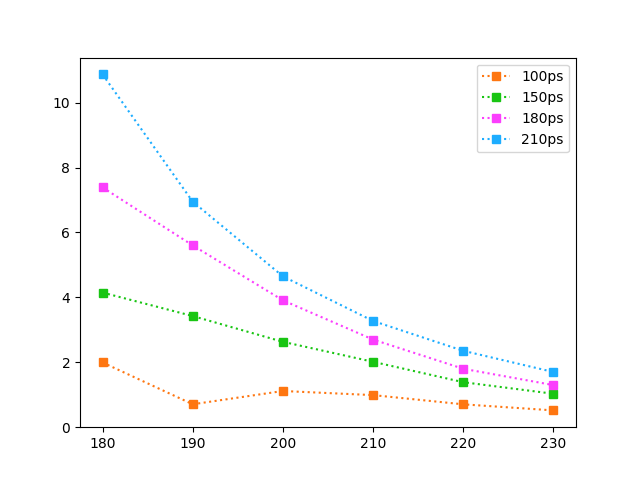
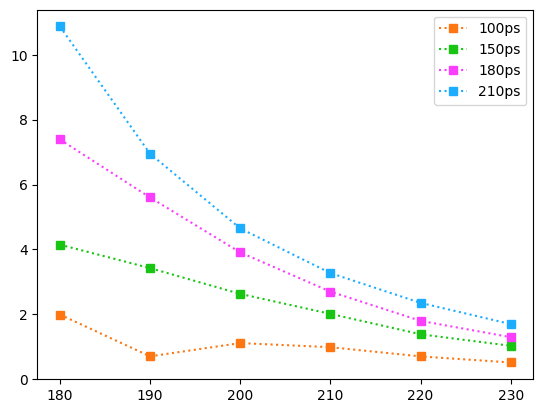
Poster stuff from PC

diff --git a/Batch 3/single Gaussian IRF/plotbar.py b/Batch 3/single Gaussian IRF/plotbar.py
@@ -167,7 +167,7 @@ for dataset in plots:
 	
 	plt.xticks(x,x)
 	plt.legend()
-	plt.savefig(dataset[0]+" "+dataset[1]+".png")
+	plt.savefig(dataset[0]+" "+dataset[1]+".png", bbox_inches="tight")
 	plt.clf()
 
 """

diff --git a/Batch 3/regular IRF/plotirf.py b/Batch 3/regular IRF/plotirf.py
@@ -60,4 +60,4 @@ plt.plot(x,y3, color = Y)
 plt.ylabel("Intensity %")
 plt.xlabel("Time (ps)")
 plt.legend()
-plt.show()
+plt.savefig("irf.png", bbox_inches="tight")
